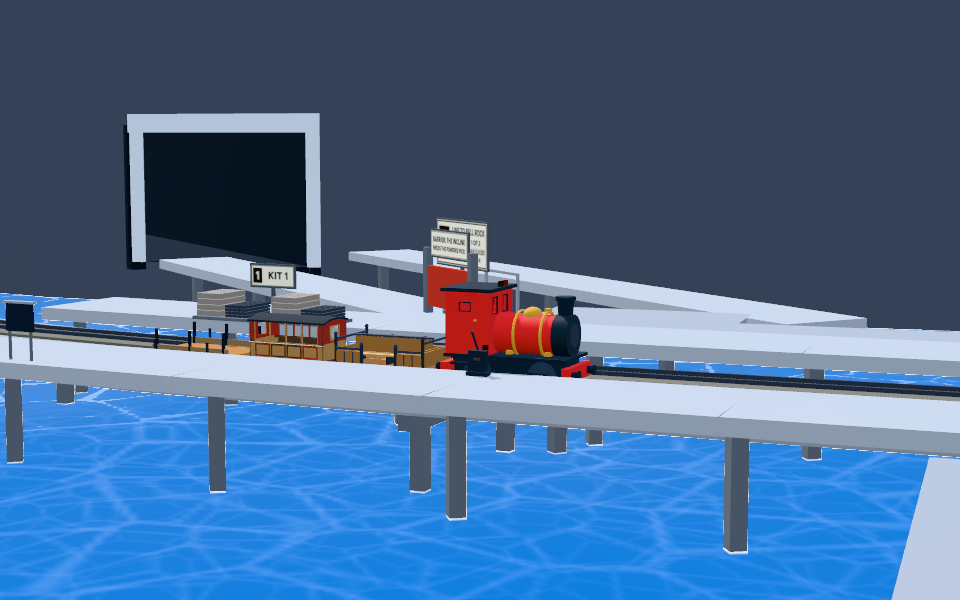
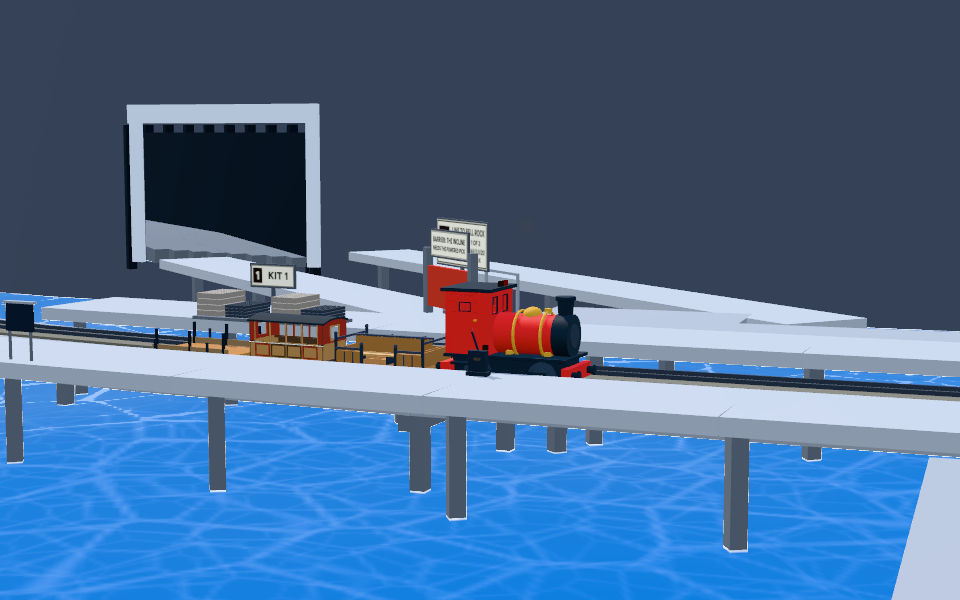
Greybox leg 2 step 4: the review's fixes in the plan, place.md and the calls; the barrier still retaken
The as-built note gains the review fixes, the corrected rail height (about 3.2 to 4.0 m in the bore), the beds' new
solids and the fixtures they moved; place.md's greybox section names the beds; the rail table gains the beds' call.
step4-barrier-from-stair.png is retaken at gorge-reached from the same camera: the unlaid bed shows inside the bore's
mouth.

diff --git a/docs/agent-calls.md b/docs/agent-calls.md
@@ -49,7 +49,8 @@ Split by topic on 10 November 2026 (see [decisions.md](decisions.md#recording-a-
 | 2026-11-19 | Default: High Gorge's yard is drawn as an unlabelled pile beside the incline's first rack (3.4 m further along line 2's south platform), and line 2's kit car's crates hop onto it for the units past what the rack lacks | [greybox-leg2](plans/greybox-leg2.md), step 4 as built; `src/entities/railway/leg-yard.ts` | Builder (greybox-leg2 step 4) | The yard's units would otherwise vanish from the car with nowhere to land; no new copy | open |
 | 2026-11-19 | Default: the incline's barrier is a red panel on two posts on its first frame's platform side, lifted to a bar once open; the frame offers no Feed prompt while it is shut (the barrier's prompt, on the same spot, carries the reason); the Canopy barrier is the same, on the out half's heading, with no plate | [greybox-leg2](plans/greybox-leg2.md), step 4 as built | Builder (greybox-leg2 step 4) | Reads as the frame being barred from where you stand to feed it; the plan gives no Canopy plate copy | open |
 | 2026-11-19 | Default: a risen stall is a 0.9 m counter on its pad's track-side half, drawn only (no collider); the seeds post is grey until the incline is laid, teal while it can be taken, gone once taken | [greybox-leg2](plans/greybox-leg2.md), step 4 as built | Builder (greybox-leg2 step 4) | A taller box hid the pad's sign, which faces the tracks from the pad's far edge; drawn only, so nothing can close round a player | open |
-| 2026-11-19 | Default: the bore is 8 m clear between 1 m dark walls, its roof's underside 11 m (7 m over the 4.0 m rail at least), lined in 1 m strips to meet the stack's faces, with a pale frame round each mouth; the horizon's mesh is opened at both mouths | [greybox-leg2](plans/greybox-leg2.md), step 4 as built; `src/content/levels/leg2.ts` bore(), `src/entities/sickle-backdrop/view.ts` | Builder (greybox-leg2 step 4) | The double-sided horizon mesh would otherwise wall both mouths for a rider; the strips leave a small step on the roof's edge at each mouth | open |
+| 2026-11-19 | Default: the bore is 8 m clear between 1 m dark walls, its roof's underside 11 m (at least 7 m over the rail, which climbs from about 3.2 m at the split's mouth to 4.0 m), lined in 1 m strips to meet the stack's faces, with a pale frame round each mouth; the horizon's mesh is opened at both mouths | [greybox-leg2](plans/greybox-leg2.md), step 4 as built; `src/content/levels/leg2.ts` bore(), `src/entities/sickle-backdrop/view.ts` | Builder (greybox-leg2 step 4) | The double-sided horizon mesh would otherwise wall both mouths for a rider; the strips leave a small step on the roof's edge at each mouth | open |
+| 2026-11-19 | Default: the incline's bore has an unlaid bed for its floor across the deck's width, 0.15 m under the rail and solid down to the floor's level, and the bay row's bed runs on over Bell Rock's rock to t 94 (review fix) | [greybox-leg2](plans/greybox-leg2.md), step 4 review fixes; `src/content/levels/leg2.ts` BORE_BED, bay-bed-on, bay-bed-climb | Builder (greybox-leg2 step 4) | A lay makes the deck solid at once: over open floor or rock it closed round a body; over a bed just under the rail it only lifts one, as at Bell Rock's and the West landing's beds. 0.15 m (not 0.1) because the smoothed deck runs up to 0.103 m off the row's straight pieces | open |
 | 2026-11-19 | Default: a standing piece of the leg views (buffers, a head's platforms and posts) that would switch on round your body waits until you step out of it, by the shared site clearance, rather than moving you | [greybox-leg2](plans/greybox-leg2.md), step 4 as built; `src/entities/route-greybox/leg-view.ts` stand | Builder (greybox-leg2 step 4) | No view may teleport (lint); the incline's end buffers appear on Bell Rock's existing lower bed at its last lay | open |
 | 2026-11-19 | Default: the new lines' departure boards list the line's open stops by their catalog names ("High Gorge", "Incline head 1", "Bell Rock"; "West landing", "Bay head 1", "Bell Rock") | [greybox-leg2](plans/greybox-leg2.md), step 4 as built | Builder (greybox-leg2 step 4) | The plan's "plain departure board listing its line's stops"; the head names are the sim catalog's placeholders | open |
 | 2026-11-19 | New: build 1's halt yards are the Village, Camp, Quarry and Far Head only; none at the Railhead, Ring Island or any greybox halt until its area is built for real (plan only) | [halt-yard](plans/halt-yard.md#design-review-2026-11-19), call 4, owner question 1 | Planner (design review) | The 10 November answer named the halts of its day; the Railhead has no ground, Ring Island already has its kit yard, greybox halts are grey and labelled | open |

diff --git a/docs/plans/greybox-leg2.md b/docs/plans/greybox-leg2.md
@@ -387,8 +387,9 @@ halts, adapters, docs. No rule, wire, op or save field changed; nothing under `s
   so a homeward train takes the start's crossover on its way in (the server judges a departure's lever from the
   start's outward platform). Kit marks and the kit's hop are per line: line 2 sets the incline's kit on its first rack
   (9 m over line 2's up track) and the rest on an unlabelled pile beside it, High Gorge's yard.
-- **The bore** is 8 m clear between 1 m black walls, its roof 11 m (7 m over the 4.0 m rail at least), lined in strips
-  that meet the stack's faces, with a pale frame at each mouth. The south stack's hidden collider keeps its slab over
+- **The bore** is 8 m clear between 1 m black walls, its roof 11 m (at least 7 m over the rail, which climbs from
+  about 3.2 m at the split's mouth to 4.0 m), lined in strips that meet the stack's faces, with a pale frame at each
+  mouth. Its floor across the deck's width is an unlaid bed 0.15 m under the rail (review fix, below). The south stack's hidden collider keeps its slab over
   the bore at its index and is split round the bore in `leg2.ts`, authored to 0.1 m and checked against the stack's
   outline at build. **Moved from the plan:** the horizon mesh (`sickle-backdrop/view.ts`) is double-sided, so it is
   opened at both mouths; otherwise a rider sees the cliff's back across each mouth. The old dark portal panel is the
@@ -423,11 +424,24 @@ and 421,448, here 372 and 474,846; the West landing 491 and 1,000,019, here 496 
 177 and 370,875, here 670 and 1,178,947 (the two lines' four trains, drawn now, parked under the land on main). Static
 colliders 2,890 to 2,945 on main, 2,983 to 3,069 here; High Gorge's massing 55 to 91 solids (the bore). With Bell
 Rock resident: 1,110 meshes and 3,001 colliders (its 75 boxes, 21 solids); from head 1, Bell Rock not resident: 1,133
-meshes and 2,983 colliders. No frame time: the machine was shared, so none would be evidence.
+meshes and 2,983 colliders. No frame time: the machine was shared, so none would be evidence. Measured before the
+review's beds, which add 22 solids at High Gorge (113) and 2 at Bell Rock (77 boxes, 23 solids), in the same batches.
 
-**Fixtures moved:** `prefab-gorge-colliders.json` and `prefab-gorge-placements.json` (the bore's pieces; the incline's
-post supports renumbered after them), `prefab-halts.json` (the eight new levers' meshes and plaques, additive); the
-halt test counts 28 levers. Each regenerated with `GOLDEN=1`. **Unverified:** the bot and the loop (step 5); a lever
+**Fixtures moved:** `prefab-gorge-colliders.json` and `prefab-gorge-placements.json` (the bore's pieces and bed; the
+incline's post supports renumbered after them), `prefab-bell-colliders.json` and `prefab-bell-placements.json` (the
+bay's two bed pieces on the rock), `prefab-halts.json` (the eight new levers' meshes and plaques, additive); the halt
+test counts 28 levers and the portability test 72 Bell Rock placements. Each regenerated with `GOLDEN=1`.
+
+**Review fixes (19 November).** The independent review's P2: a lay made the incline's deck solid over the bore's open
+floor, 0.4 to 1.1 m under the slab, closing it over a body standing there. The bore's floor across the deck's width is
+now an unlaid bed (as Bell Rock's and the West landing's are), 0.15 m under the rail and solid down to the floor's
+level, so a lay only lifts a body; the same was true where the bay row climbs onto Bell Rock's rock east of its
+in-half bed, which now carries on there to t 94. `test/prefab-leg2-level.test.ts` (the review's test, rewritten to the
+property) checks both new lines' whole rows: the highest level surface under every metre of deck sits within a body
+sphere's radius under the rail or leaves a whole body under the slab. P3s: line 2's unload at High Gorge goes all to
+the yard once the incline's rack has moved to its head (it took whatever that rack gained in the frame); the `ns` and
+`bay` kit cars carry a kit board; a standing piece's hold measures the body against the pitched box (a sea ramp's
+slip). The barrier still is retaken: the unlaid bed now shows inside the bore's mouth. **Unverified:** the bot and the loop (step 5); a lever
 pull answered on the new lines in a live room; a second player; the kit's hop and the yard pile in motion; the
 level report's walk over the new head platforms. Not tested on a device.
 

diff --git a/docs/game-design/place.md b/docs/game-design/place.md
@@ -1519,8 +1519,9 @@ section end, a 25 m platform each side of its head with a sea ramp, and the open
 "KIT" plate. Trains run on the outward track and stand at a line's start on the outward platform: a homeward train
 takes the start's crossover on its way in (`railway/row-path.ts`). The end board reads "LINE TO BELL ROCK / UNDER
 CONSTRUCTION" at each line's end until it reaches Bell Rock. **The incline** leaves High Gorge through a 165 m bore
-in the south stack, 8 m clear under a dark lining, with a pale frame round each mouth: riding home, the split opens
-out of the dark; riding out, the sea does. The barrier stands on the incline's first frame (a red panel on two posts,
+in the south stack, 8 m clear under a dark lining, with a pale frame round each mouth and an unlaid bed for its
+floor, as Bell Rock's and the West landing's are: riding home, the split opens out of the dark; riding out, the sea
+does. The bay line's bed runs on over Bell Rock's rock where the line climbs onto it. The barrier stands on the incline's first frame (a red panel on two posts,
 lifted once opened with the powered pick); the old pad behind the south platform is empty. Line 2's kit car sets the
 incline's kit on its first rack, on line 2's south platform, and the rest on an unlabelled pile beside it (High
 Gorge's yard), which the `ns` trains take on. **Bell Rock** gains the seeds post on the lower deck ("Take the crystal
